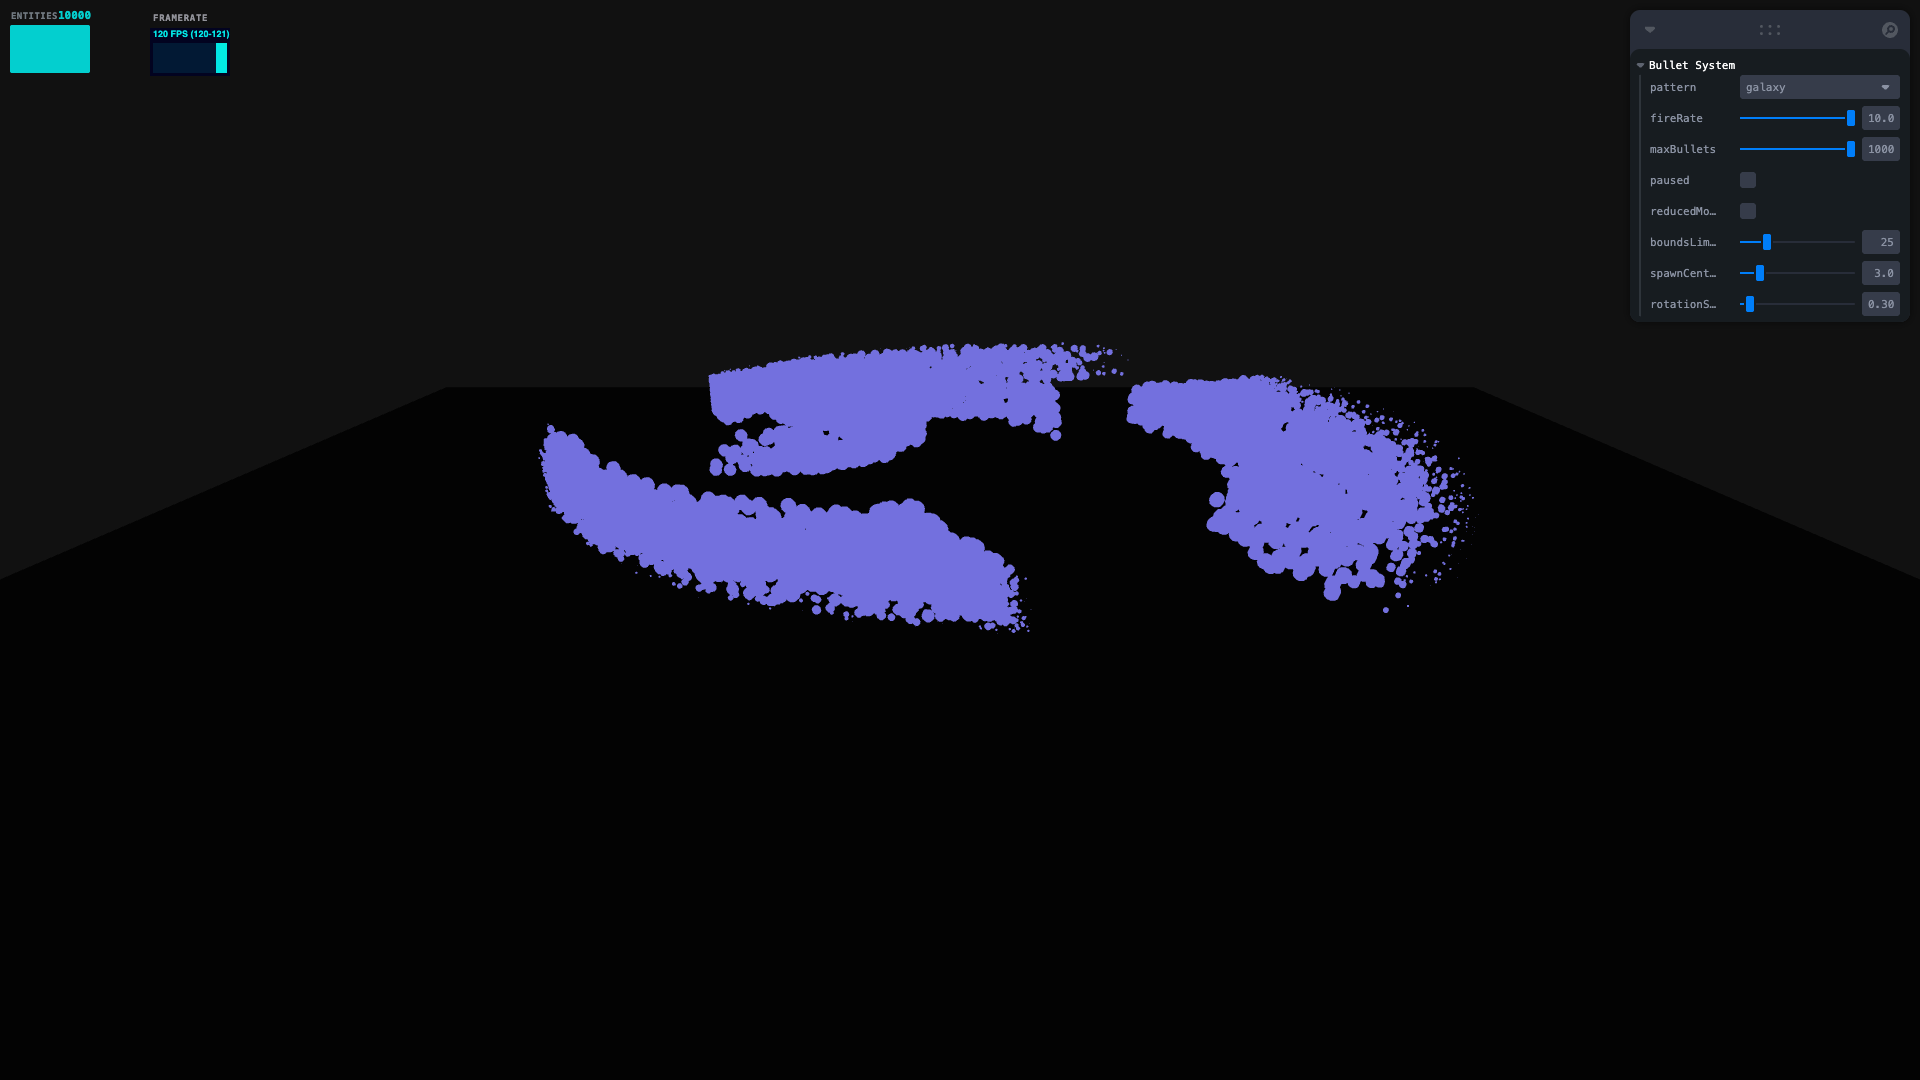
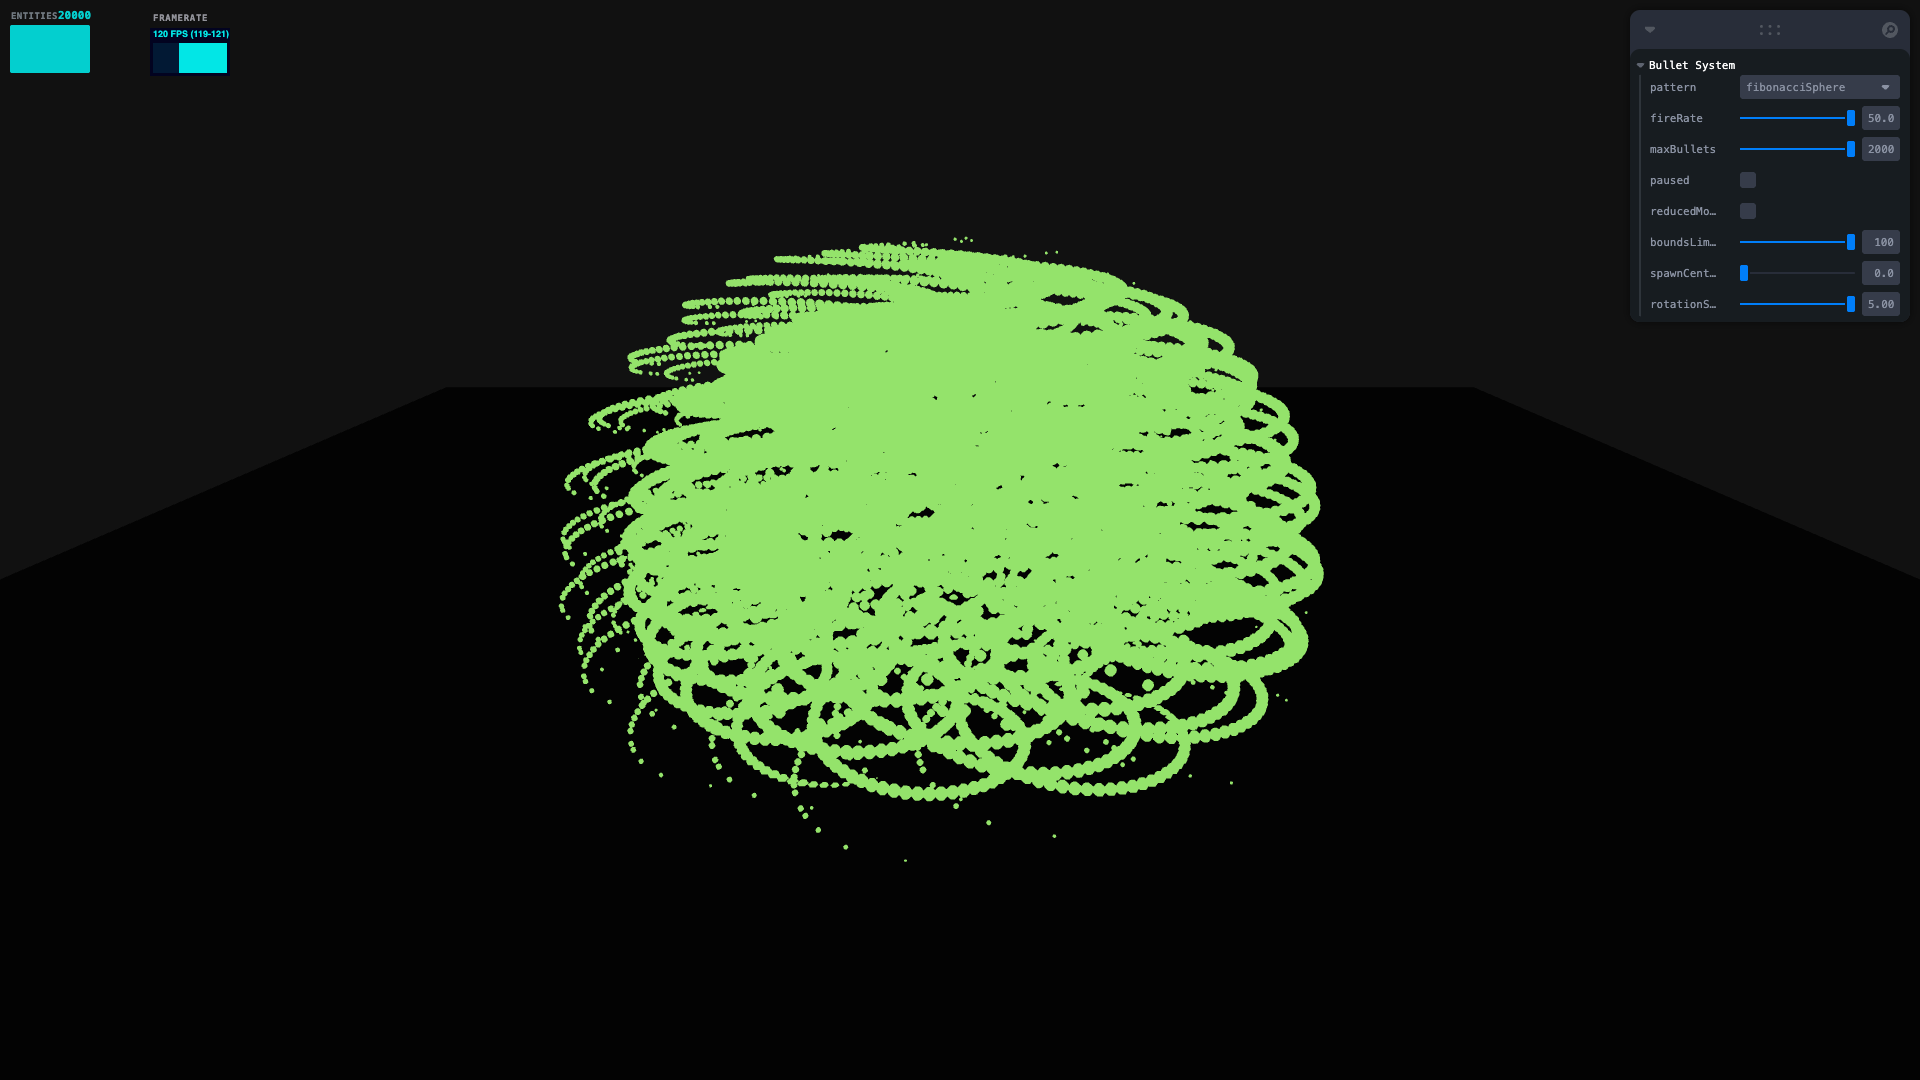
feat: increase max bullet capacity to 20,000 and update stress test UI and documentation accordingly

diff --git a/examples/stress-test/App.tsx b/examples/stress-test/App.tsx
@@ -22,8 +22,8 @@ export default function App() {
       options: ['fibonacciSphere', 'torusKnot', 'galaxy', 'helix', 'rose3D', 'ring'],
       value: 'galaxy',
     },
-    fireRate: { value: 2.5, min: 0.1, max: 10, step: 0.1 },
-    maxBullets: { value: 2500, min: 100, max: 10000, step: 100 },
+    fireRate: { value: 2.5, min: 0.1, max: 50.0, step: 0.1 },
+    maxBullets: { value: 2500, min: 100, max: 20000, step: 100 },
     paused: false,
     reducedMotion: false,
     boundsLimit: { value: 25, min: 5, max: 100, step: 1 },

diff --git a/README.md b/README.md
@@ -1,6 +1,6 @@
 # @k9kbdev/r3f-projectiles
 
-Composable, GPU-instanced projectile system for React Three Fiber. Zero-allocation render loop. 10,000+ simultaneous bullets at 120 fps.
+Composable, GPU-instanced projectile system for React Three Fiber. Zero-allocation render loop. 20,000 simultaneous bullets at 120 fps.
 
 [![npm](https://img.shields.io/npm/v/@k9kbdev/r3f-projectiles)](https://www.npmjs.com/package/@k9kbdev/r3f-projectiles)
 [![license](https://img.shields.io/npm/l/@k9kbdev/r3f-projectiles)](./LICENSE)
@@ -24,7 +24,7 @@ export default function App() {
 ## Features
 
 - **Composable pattern system** — `gen → mod → compose` pipeline for building custom bullet patterns from simple primitives.
-- **GPU-instanced rendering** — a single `<instancedMesh>` drives 10,000+ bullets at 120 fps.
+- **GPU-instanced rendering** — a single `<instancedMesh>` drives 20,000 bullets at 120 fps.
 - **Zero-allocation render loop** — scratch `Object3D`, `Vector3`, and `Color` objects are created once and reused every frame.
 - **Object pooling** — `acquire()` / `releaseSpawnData()` recycle `BulletSpawnData` objects to eliminate GC pressure.
 - **Accessibility** — `reducedMotion` prop spawns a static snapshot with zero velocity.
@@ -53,7 +53,7 @@ npm install @k9kbdev/r3f-projectiles
 
 ![R3F Projectiles Demo](./assets/r3f-projectiles-demo.gif)
 
-![10,000 entities at 120 FPS stress test](./assets/stress-test.png)
+![20,000 entities at 120 FPS stress test](./assets/stress-test.png)
 
 To see the performance for yourself, run the built-in stress test:
 
@@ -61,7 +61,7 @@ To see the performance for yourself, run the built-in stress test:
 npm run dev:stress
 ```
 
-This launches a Vite dev server at `localhost:5173` featuring a UI to toggle between patterns, crank the fire rate, and spawn up to 10,000 bullets while tracking your browser's framerate, render time, and memory usage in real-time.
+This launches a Vite dev server at `localhost:5173` featuring a UI to toggle between patterns, crank the fire rate, and spawn up to 20,000 bullets while tracking your browser's framerate, render time, and memory usage in real-time.
 
 ---
 
@@ -378,7 +378,7 @@ export default function App() {
 
 ### Zero-allocation render loop
 
-Every frame updates up to 2 000 bullet transforms. To avoid triggering garbage collection, the `useFrame` callback never allocates. All `Object3D`, `Vector3`, and `Color` scratch objects (`_dummy`, `_tempColor`, `_sourcePos`) are created once in `useMemo` and reused on every frame call. `addScaledVector(v, dt)` updates physics in-place.
+Every frame updates up to `maxBullets` (default: 2,000) bullet transforms. To avoid triggering garbage collection, the `useFrame` callback never allocates. All `Object3D`, `Vector3`, and `Color` scratch objects (`_dummy`, `_tempColor`, `_sourcePos`) are created once in `useMemo` and reused on every frame call. `addScaledVector(v, dt)` updates physics in-place.
 
 ### Object pooling (`acquire` / `releaseSpawnData`)
 